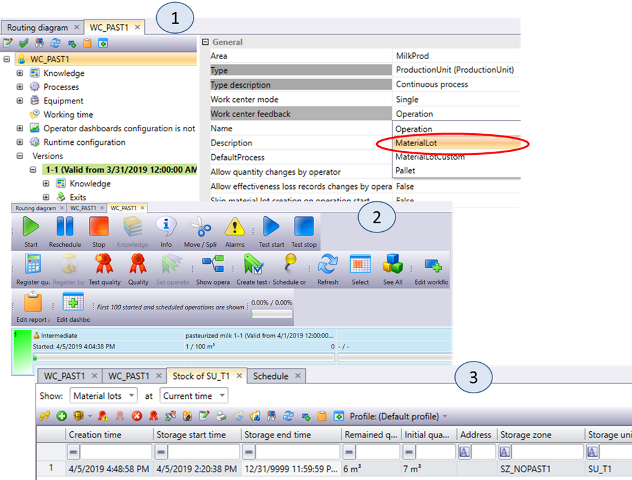
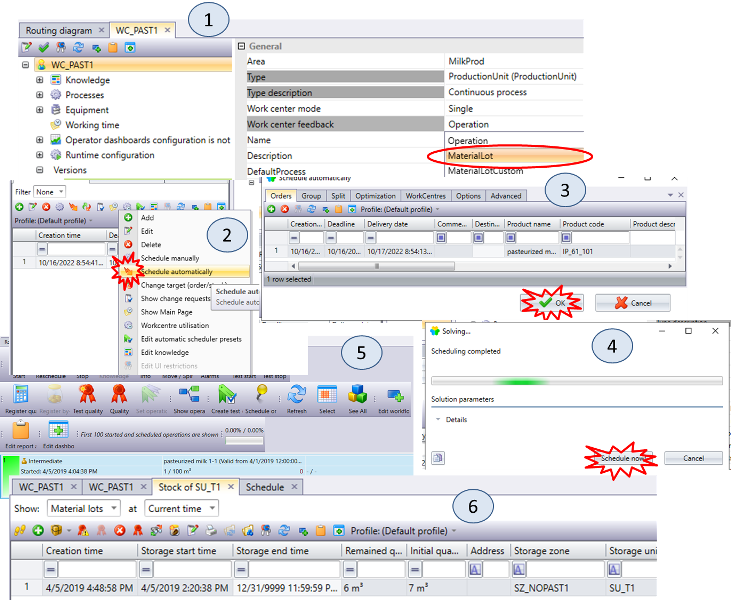
3

diff --git a/лабораторні/3_storzone.md b/лабораторні/3_storzone.md
@@ -33,8 +33,8 @@
 
 1.  Використовуючи кнопку `Add` у вікні навігатора об\'єктів модуля `Layout` додайте зону зберігання (`Storage Zone`) (рис.3.1(1))
 2.  Вкажіть тип `Tank storage zone` (рис.3.1(2))
-3.  Вкажіть ім\'я «SZ\_XX\_NOPAST1».
-4.  Зробіть валідацію.
+3.  Вкажіть ім\'я `SZ_XX_NOPAST1`.
+4.  Зробіть валідацію зони зберігання.
 
 ---
 
@@ -48,10 +48,10 @@
 
 ![рис.3.2. Створення танка зберігання ](3media/2.png)
 
-1.  Використовуючи кнопку Add у вікні навігатора об\'єктів модуля Layout додайте вузол зберігання (`Storage Unit`) (рис.3.2(1))
-2.  У вікні вибору (рис.3.2(2)) вкажіть «Create new instance of Storage unit and add \...»
-3.  Вкажіть тип «Tank Storage Unit» (рис.3.2(3)) і натисніть «Create»
-4.  Для створеного Tank Storage Unit вкажіть ім\'я «SU\_XX\_T1» (рис.3.2(4))
+1.  Використовуючи кнопку `Add` у вікні навігатора об\'єктів модуля Layout додайте вузол зберігання (`Storage Unit`) (рис.3.2(1))
+2.  У вікні вибору (рис.3.2(2)) вкажіть `Create new instance of Storage unit and add ...`
+3.  Вкажіть тип `Tank Storage Unit` (рис.3.2(3)) і натисніть `Create`
+4.  Для створеного Tank Storage Unit вкажіть ім\'я `SU_XX_T1` (рис.3.2(4))
 5.  У властивостях версії вкажіть обсяг 10000 л (рис.3.2(5))
 6.  Зробіть валідацію.
 
@@ -66,8 +66,8 @@
 1.  Відкрийте модуль Stock
 2.  Через контекстне меню танка `SU_XX_T1` відкрийте вікно Stock Grid (рис.3.3(1)).
 3.  Зареєструйте надходження сировини, використовуючи кнопку Produce (рис.3.3(2))
-4.  У вікні вибору типу і кількості продукту (рис.3.3(3)) використовуючи кнопку \"Change\" виберіть сировину `RM_XX_101` (рис.3.3(4))
-5.  Визначте кількість в QuantityToHandle рівним 7000 л (рис.3.3(3)) і натисніть «Ок».
+4.  У вікні вибору типу і кількості продукту (рис.3.3(3)) використовуючи кнопку `Change`  виберіть сировину `RM_XX_101` (рис.3.3(4))
+5.  Визначте кількість в `QuantityToHandle` рівним 7000 л (рис.3.3(3)) і натисніть «Ок».
 6.  В «initial quantity» і «remain quantity» таблиці Stock буде по 7000 л (рис.3.3(5))
 7.  Подивіться властивості версії `SU_XX_T1` там також відображається поточна кількість в танку д (рис.3.3(6))
 
@@ -79,17 +79,17 @@
 
 У даному пункті важливо вказати як пов'язаний робочий центр та зона зберігання матеріальними потоками. Тому для з'єднань важливо для цього вказати властивість `Feedback behavior` (поведінка зворотного зв'язку), яка показує як буде пов'язана реєстрація виготовлення/споживання партії матеріалу на пов'язаних робочому центрі та зонах зберігання:
 
-- No action - не будуть пов'язані, у кожного робочого центра відбувається незалежна реєстрація продукту;  
+- `No action` - не будуть пов'язані, у кожного робочого центра відбувається незалежна реєстрація продукту;  
 - `Feedback to previous` (зворотній зв'язок до попереднього) - реєстрація вироблення на кінцевому вузлі (на який вказує стрілка) буде автоматично приводити до реєстрації на початковому (русурсі) 
 - `Feedback to next` (зворотній зв'язок до наступного) - Реєстрація на вироблення на ресурсному вузлі буде автоматично приводити до реєстрації на кінцевому.
 
 ![рис.3.4. Конфігурація маршрутизації Routing Diagram ](3media/4.png)
 
 1.  Через браузер об\'єктів модуля `layout` відкрийте `Routing Designer` (рис.3.4(1))
-2.  У вікні Routing Designer відкрийте вкладку `Storage zones` (рис.3.4(2)). У ній будуть відображатися всі нерозміщені в `Routing Designer` зон зберігання (Storage zones). Перетягніть зону `SZ_XX_NOPAST` на діаграму.
+2.  У вікні Routing Designer відкрийте вкладку `Storage zones` (рис.3.4(2)). Якщо такої вкладки немає, очевидно не стоять опції `Show Resorces`, `Show Properties` ![image-20221016083718787](E:\san\AKIT\ДИСЦИП\MES\GitVer\лабораторні\3media\image-20221016083718787.png), тоді активуйте їх (перша опція-кнопку `Show All locations` повинна бути деактивована).  У  вкладці `Storage zones` будуть відображатися всі нерозміщені в `Routing Designer` зон зберігання. Перетягніть зону `SZ_XX_NOPAST` на діаграму.
 3.  Відкрийте вкладку `Work Centers` (рис.3.4(3)). Перетягніть `WC_XX_PAST1` на діаграму. Таким чином на діаграмі будуть розміщені два об\'єкти (рис.3.4(4)).
 4.  Зробіть з\'єднання від `SZ_XX_NOPAST1` до `WC_XX_PAST1` використовуючи контекстні меню об\'єктів (рис.3.4(4)). Кінцевий результат показаний на рис.3.4(5).
-5.  Клікнувши по з\'єднанню з\'явиться вікно його властивостей (рис.3.4(6)). Змініть властивість `Feedback behavior` рівним `Feedback to previous`. Таким чином прогрес (реєстрація продукту) в робочому центрі `WC_XX_PAST1` буде приводити до прогресу в `SZ_XX_NOPAST` (споживання сировини).
+5.  Натиснувши по з\'єднанню з\'явиться вікно його властивостей (рис.3.4(6)). Змініть властивість `Feedback behavior` рівним `Feedback to previous`. Таким чином прогрес (реєстрація продукту) в робочому центрі `WC_XX_PAST1` буде приводити до прогресу в `SZ_XX_NOPAST` (споживання сировини).
 
 ---
 
@@ -98,8 +98,11 @@
 ![рис.3.5. Запуск приготування продукту з урахуванням споживання сировини](3media/5.png)
 
 1.  У властивостях робочого центру `WC_XX_PAST1` задайте значення `Work center feedback` рівним значенню `Material lot` (рис.3.5(1)). Реєстрація відібраної з зони зберігання партії матеріалу буде проводитися по зворотному зв\'язку за кількістю виробленої продукції.
-2.  Попросіть викладача зробити автоматичне планування продукту `Pasteurized milk XX`, або можете це спробувати зробити самостійно, прочитавши п.4.5 з лабораторної роботи №4. В панелі керування робочого центру `WC_XX_PAST1` запустіть операцію по виготовленню "Pasteurized milk XX\". За допомогою кнопки «Register quantity» зареєструйте 1000 л продукту (рис.3.5(2)).
-3.  Перейдіть у вікно `Stock Grid` модуля `Stock`. Кількість продукту, що залишився  має зменшитися на 1000 л.
+2.  У модулі Scheduler створіть клієнтське замовлення на виготовлення 1000 л напівфабрикату `Pasteurized milk XX`  `IP_XX_101`, як це робилося у лабораторній роботі 2.9 . Змініть `Deadline` i `Delivery date` на 3-4 години пізніше поточного часу і натисніть «Ok». У вікні клієнтських замовлень з\'явиться нове замовлення. 
+3.  Натисніть кнопку `Schedule Automatically` в модулі `Scheduler`  (рис.3.5(2)) для запуску автоматичного планування виберіть замовлення та натисніть `Ok` (рис.3.5(3)). У спливаючому вікні `Solving` (рис.3.5(4)) натисніть кнопку `Schedule now`. Відкрийте в `Sheduler` вікно `Shedule View` (  `Show Main Page`)  і проконтролюйте що на робочий центр автоматично спланувалася операція. 
+4.  В панелі керування (Supervisor) робочого центру `WC_XX_PAST1` запустіть операцію по виготовленню "Pasteurized milk XX\". За допомогою кнопки `Register quantity` зареєструйте 1000 л продукту (рис.3.5(5)). Зупиніть виконання операції.
+
+5. Перейдіть у вікно `Stock Grid` модуля `Stock`. Кількість продукту, що залишився  має зменшитися на 1000 л (рис.3.5(6)).
 
 ---
 
